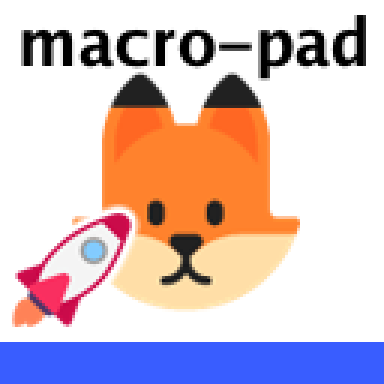
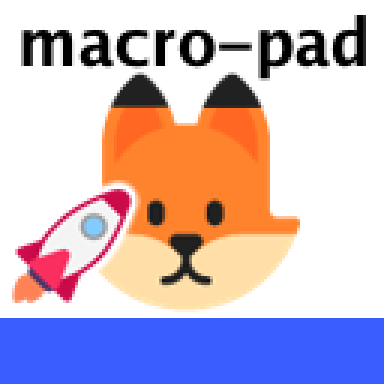
0082: a taller status strip, 22 px
Keith asked for a taller color strip. It now covers y 106 to 128, and the
sticker moves up so it and its outline clear the strip.

Claude-Session: https://claude.ai/code/session_01HFTkjptf4xm84njWDexRGd

Changed region(s): [[0.0, 0.4688, 1.0, 0.9062]]

diff --git a/driver/layers/emoji.go b/driver/layers/emoji.go
@@ -36,7 +36,7 @@ const (
 	IconEmojiDir = "emoji/"
 
 	// The strip of the key color covers y emojiStripY to the bottom.
-	emojiStripY = 114
+	emojiStripY = 106
 
 	// The caption is centred at y captionY, at most captionMaxW pixels wide.
 	captionY    = 14
@@ -59,11 +59,11 @@ type emojiSpot struct{ x, y, size int }
 var emojiLayout = map[bool][][]emojiSpot{
 	true: {
 		{{56, 66, 80}},
-		{{62, 64, 80}, {24, 90, 40}},
+		{{62, 64, 80}, {24, 82, 40}},
 	},
 	false: {
 		{{60, 56, 100}},
-		{{70, 50, 96}, {28, 88, 48}},
+		{{70, 50, 96}, {28, 78, 48}},
 	},
 }
 

diff --git a/tasks/ongoing/0082-bigger-emoji-hero-and-sticker-over-a-status-strip.md b/tasks/ongoing/0082-bigger-emoji-hero-and-sticker-over-a-status-strip.md
@@ -53,7 +53,7 @@ rounds of mock-ups (in the project files, `specs/key-layouts/0082-round2.png`).
 ### Approach A: hero, sticker, caption, and strip on an opaque tile (chosen)
 
 Layout 1 Overlap: a white tile, the caption on top, the hero, the sticker,
-and a 14 px strip of the status color at the bottom. Every picture is cropped
+and a 22 px strip of the status color at the bottom. Every picture is cropped
 to its art before it is scaled.
 
 - Good, because the hero is about 2.3 times as wide as today's emoji and the
@@ -84,18 +84,18 @@ the status color shows only as a strip, not around the whole picture.
 All in `driver/layers/emoji.go` (`drawIconEmoji`) and `render.go`.
 
 - **Tile.** The whole 128x128 key is opaque white. A strip of the status color
-  covers y 114 to 128. With no status the strip is black, as the corners were.
+  covers y 106 to 128 (22 px; 14 px in the first version). With no status the strip is black, as the corners were.
 - **Crop.** Each picture is cut to the box of its pixels with alpha above
   0x08 before it is scaled, so the size below is the size of the art. The
   longer side of the art takes the size; the shorter side keeps the ratio.
 - **With a caption**, centred at y 14, black `gobold`, the largest of 22, 20,
   18, 16, 14 px that fits 120 px, cut with `…`:
   - two emoji: the hero 80 px centred at (62, 64), the sticker 40 px centred
-    at (24, 90);
+    at (24, 82);
   - one emoji: 80 px centred at (56, 66).
 - **With no caption:**
   - two emoji: the hero 96 px centred at (70, 50), the sticker 48 px centred
-    at (28, 88);
+    at (28, 78);
   - one emoji: 100 px centred at (60, 56).
 - **Sticker.** A 3 px white outline (the art's alpha grown by 3 px, with an
   antialiased edge) is drawn under the sticker, so it reads where it covers
@@ -144,3 +144,5 @@ and `icon-emoji-caption-pip.png`, a new golden `testdata/icon-emoji-alone.png`,
   Round 1 (`specs/key-layouts/0082-layouts-1.png`, `-2.png`) had 8 layouts;
   Keith picked H, then asked to combine it with A's hero and sticker. Round 2
   (`0082-round2.png`) had 5; Keith picked 1 Overlap.
+- 2026-10-27: after PR #105, Keith asked for a taller strip: 14 px became
+  22 px, and the sticker moved up 8 px (10 px with no caption) so it and its outline clear it.

diff --git a/driver/README.md b/driver/README.md
@@ -223,7 +223,7 @@ the poller used is not read any more; delete it.
   same text share one frame on the board, whatever their colors.
 - `iconEmoji` is one or two pictures under `assets/emoji/` (task 0073), and it
   excludes `iconRef`. They sit on an opaque white tile with the key color as a
-  14 px strip across the bottom (task 0082). Each picture is cropped to its
+  22 px strip across the bottom (task 0082). Each picture is cropped to its
   art; the first is the hero, 80 px, and the second a 40 px sticker with a
   white outline over the hero's lower left (96 px and 48 px with no caption,
   and one emoji alone is 80 px, or 100 px). With `iconEmoji`, `iconText` is a
